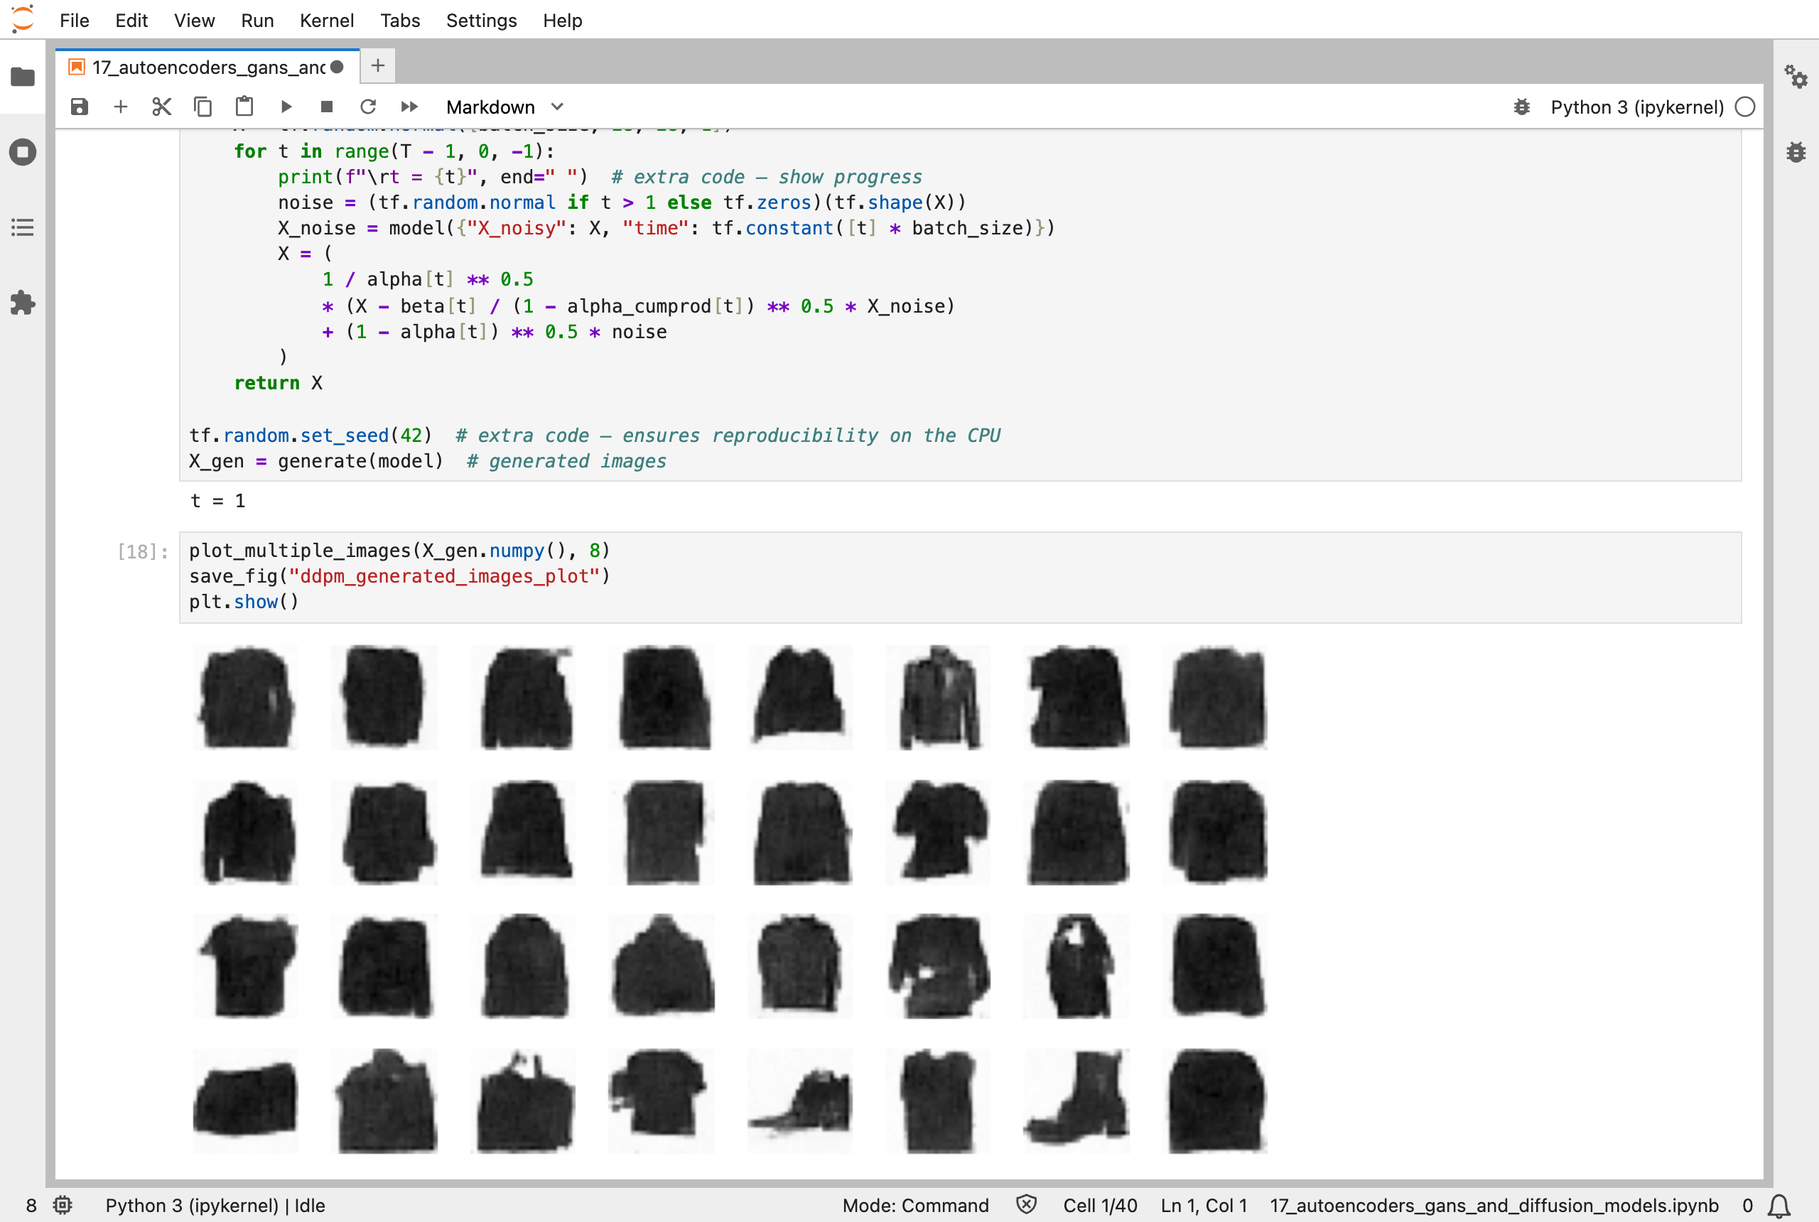
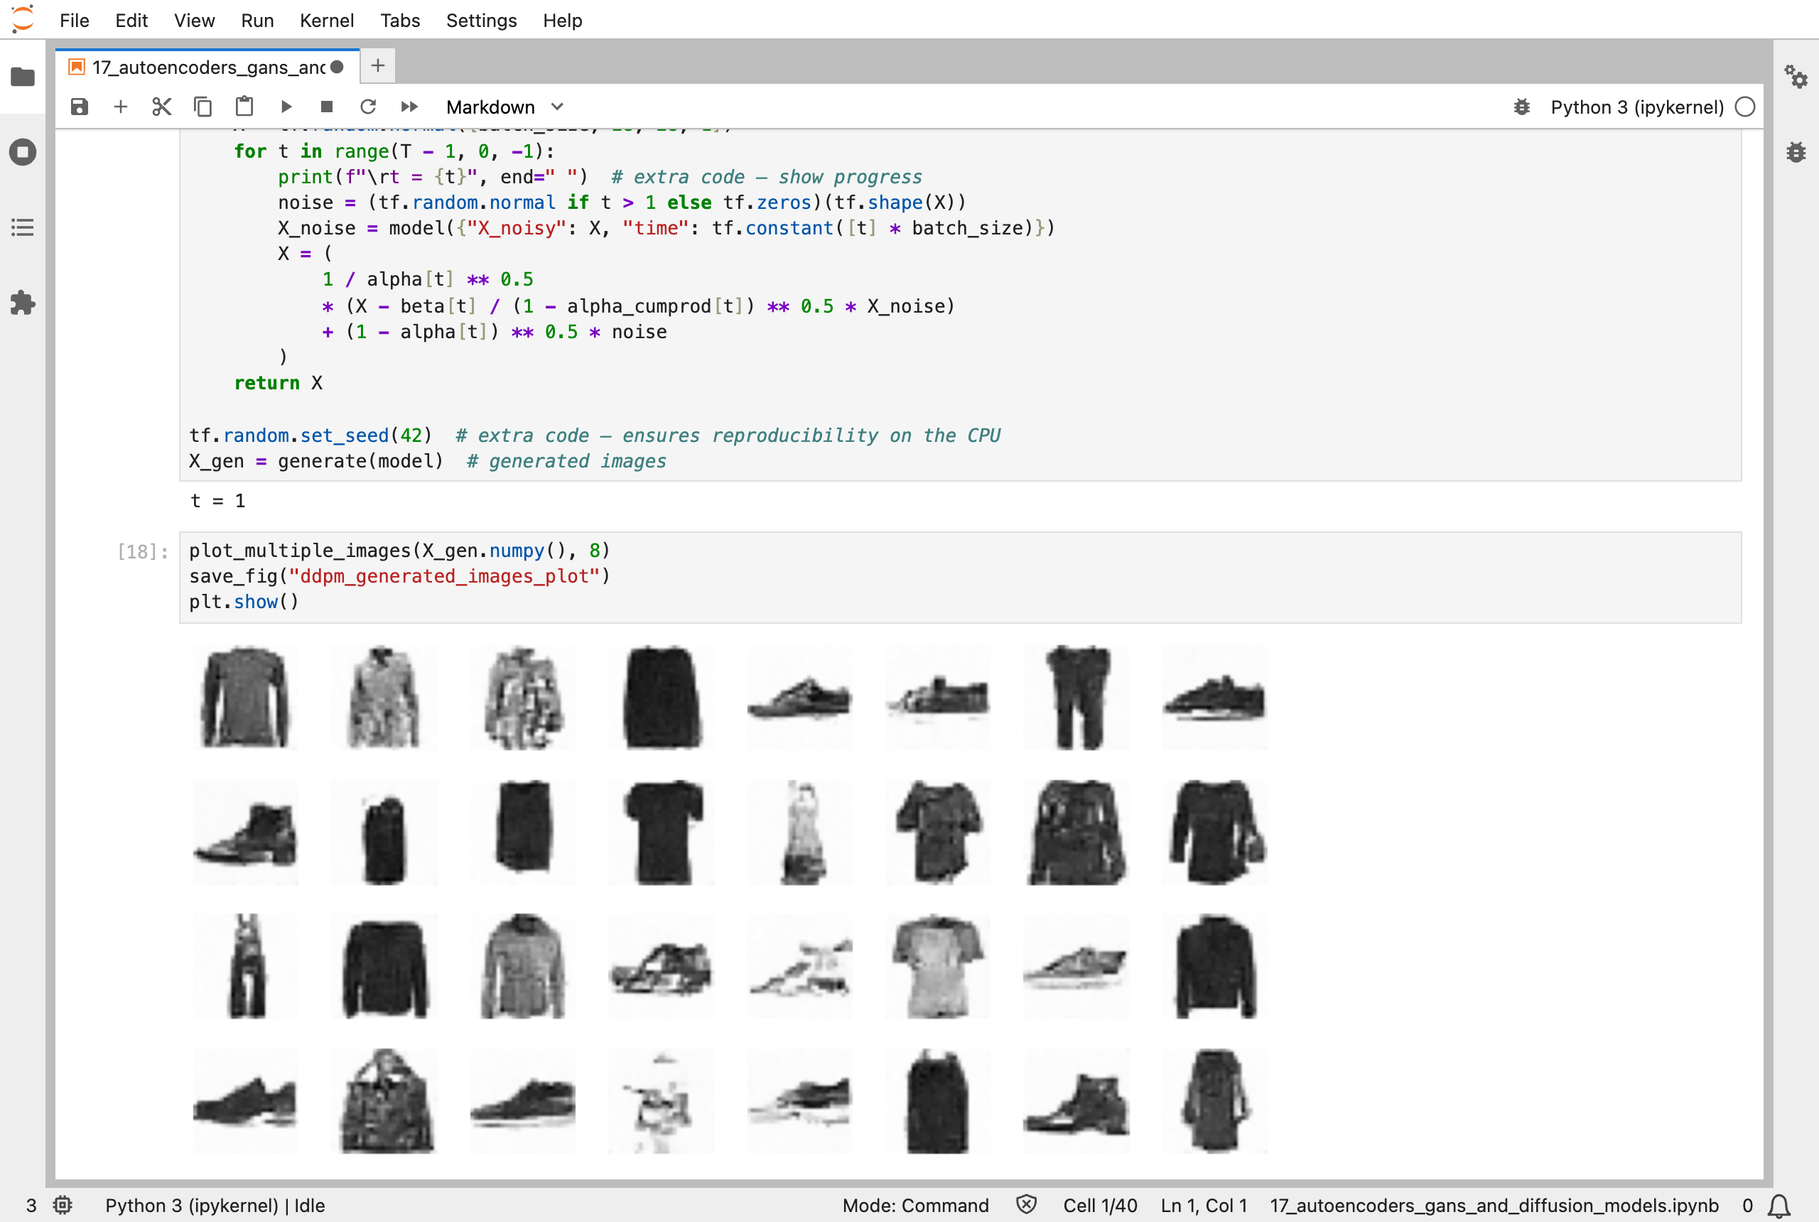
Scikit-Learn Parts 16, 17, 19, 20: full-length reruns of the GANs, diffusion model, and sentiment models; GPU wording

Changed region(s): [[0.0938, 0.5238, 0.7188, 0.9552], [0.5, 0.9244, 0.5312, 0.9552], [0.0938, 0.986, 0.125, 1.0]]

diff --git a/content/sklearn17.md b/content/sklearn17.md
@@ -68,8 +68,8 @@ The inputs and the targets are the same pictures, `X_train` twice. The score is 
 
 They are all close, which is the first surprise: the choice of design matters less than I expected, for this data. A picture compressed to 30 numbers, about 4% of its 784 pixels, comes back recognisable but blurred, and the pictures below show it.
 
-:::watch-it My plain GAN collapsed to a single picture
-The first GAN, built from ordinary layers, produced the same black shirt shape for every one of the 32 random inputs I gave it. This is called mode collapse: the generator found one picture that fools the discriminator, and kept making it. I trained it for 10 epochs, not the notebook's 50, so I cannot say whether more training would have cured it. The convolutional GAN, trained for 10 epochs in the same way, produced a mix of recognisable shoes, shirts, and trousers.
+:::watch-it My first plain GAN collapsed to a single picture
+In my first run, which I cut to 10 epochs, the plain GAN, built from ordinary layers, produced the same black shirt shape for every one of the 32 random inputs I gave it. This is called mode collapse: the generator found one picture that fools the discriminator, and kept making it. When I ran the notebook's full 50 epochs, it did not collapse: its 32 pictures were different from each other, with shirts, trousers, and shoes, but speckled with noise. So the collapse was not permanent. A GAN can pass through bad stages, which is part of why they are hard to train.
 :::
 
 ![](assets/images/sklearn17/jupyter-stacked-recon.png)
@@ -92,9 +92,9 @@ A: The 30 numbers in the middle. They are a compact description of each picture,
 
 A: Its middle layer gives a mean and a spread for each of 10 numbers, and a random sample is drawn from them. Training also pushes those distributions to look like a standard bell curve. Afterwards, I can throw away the encoder, draw 10 random numbers, give them to the decoder, and get a new picture. An ordinary autoencoder has no such guarantee that random middle numbers make sense.
 
-**Q: Why did the diffusion model's pictures look so poor?**
+**Q: How good are the diffusion model's pictures?**
 
-A: I trained it for 10 epochs instead of the notebook's 100, so its pictures are dark, blurry shapes: jackets and a few boots. Its error ended at 0.0424, down from 0.0679 in its first epoch, but I do not know how much further it would have fallen. The notebook's own pictures after 100 epochs are much better, but I did not run that.
+A: After the notebook's full 100 epochs, much better than I expected from such a small network: recognisable shoes, boots, trousers, shirts, and jackets, a little blurred. After my first run of only 10 epochs, they were dark blurred shapes. The error went from 0.0710 in the first epoch to 0.0373 in the last, and 0.0371 at its best.
 
 **Q: Are these still the way pictures are generated?**
 
@@ -103,7 +103,7 @@ A: Diffusion models, with larger networks and text prompts added, are behind muc
 
 ## Running the notebook in Jupyter
 
-The chapter is in the notebook that goes with the book, [17_autoencoders_gans_and_diffusion_models.ipynb](https://github.com/ageron/handson-ml3/blob/main/17_autoencoders_gans_and_diffusion_models.ipynb). I ran everything before the final extra section, but with the three most expensive trainings cut down: the plain GAN and the convolutional GAN ran for 10 epochs instead of 50, and the diffusion model for 10 epochs instead of 100. Everything else, including the autoencoders, ran as written. I ran the parts at the same time, on my Mac Studio, which took under an hour. My first attempt hung. The notebook's setup imports scikit-learn before TensorFlow, which seemed to deadlock TensorFlow on my Mac; once I removed that import, the runs finished.
+The chapter is in the notebook that goes with the book, [17_autoencoders_gans_and_diffusion_models.ipynb](https://github.com/ageron/handson-ml3/blob/main/17_autoencoders_gans_and_diffusion_models.ipynb). I ran everything before the final extra section, but with the three most expensive trainings cut down at first. I then ran the two GANs again at the notebook's full 50 epochs, and the diffusion model at its full 100, which took several hours on the processor. Everything else, including the autoencoders, ran as written. I ran the parts at the same time, on my Mac Studio, which took under an hour. My first attempt hung. The notebook's setup imports scikit-learn before TensorFlow, which seemed to deadlock TensorFlow on my Mac; once I removed that import, the runs finished.
 
 ![](assets/images/sklearn17/jupyter-conv-recon.png)
 *A convolutional autoencoder after 10 passes: the validation error is 0.0135, and the rebuilt pictures, bottom row, are again blurred versions of the originals above*
@@ -115,22 +115,22 @@ The chapter is in the notebook that goes with the book, [17_autoencoders_gans_an
 *A variational autoencoder: pictures from 21 random sets of 10 numbers, and below, one picture's numbers moved a little at a time along one axis*
 
 ![](assets/images/sklearn17/jupyter-gan-images.png)
-*The plain GAN after 10 epochs: all 32 generated pictures are the same shirt shape, mode collapse*
+*The plain GAN after 50 epochs: 32 different pictures, shirts, trousers, and shoes, but speckled with noise (after only 10 epochs it had produced the same shirt shape 32 times)*
 
 ![](assets/images/sklearn17/jupyter-dcgan-images.png)
-*The convolutional GAN after 10 epochs: a mix of shoes, shirts, trousers, and jackets, rough but recognisable*
+*The convolutional GAN after 50 epochs: shoes, shirts, trousers, bags, and dresses, much cleaner than the plain GAN*
 
 ![](assets/images/sklearn17/jupyter-diffusion-noise.png)
 *How diffusion models are trained: original pictures, the same pictures with different amounts of noise added, and the noise the network must predict*
 
 ![](assets/images/sklearn17/jupyter-diffusion-images.png)
-*Pictures generated by the diffusion model after only 10 epochs: dark blurred jackets, with a few boots, and nothing like the book's results*
+*Pictures generated by the diffusion model after 100 epochs: shoes, boots, trousers, shirts, and jackets, a little blurred (after only 10 epochs they were dark blurred shapes)*
 
 :::bullet-points Autoencoders, GANs, and diffusion, in short
 - An autoencoder learns to rebuild its input through a narrow middle, so the middle becomes a compact summary.
 - The input is the target, so no labels are needed.
 - A variational autoencoder makes the middle a probability distribution, so random numbers make new pictures.
-- A GAN trains a generator and a discriminator against each other, and can collapse to one picture.
+- A GAN trains a generator and a discriminator against each other, and can collapse to one picture along the way.
 - A diffusion model learns to predict noise, and generates by removing it step by step.
 :::
 

diff --git a/content/sklearn16.md b/content/sklearn16.md
@@ -52,11 +52,11 @@ It learns from 1,115,394 letters of Shakespeare, in windows of 100 letters, and 
 |---|---|
 | Character GRU, 3 epochs | 60.1% of the next letters right in training, 54.3% on validation |
 | Same, as a stateful RNN, 10 epochs | 57.8% in training, 54.1% on validation |
-| Review sentiment with no masking, 1 epoch | 50.1% right on validation, chance |
-| Same with masking of the padding, 2 epochs | 86.2% on validation |
-| Manual masking, 2 epochs | 87.0% |
-| Ragged tensors, 2 epochs | 86.7% |
-| A pretrained sentence encoder from Google, 1 epoch | 89.7% |
+| Review sentiment with no masking, 2 epochs | 50.0% right on validation, chance |
+| Same with masking of the padding, 5 epochs | 87.5% on validation at best (epoch 3), 85.4% at the end |
+| Manual masking, 5 epochs | 87.3% at best (epoch 2), 84.5% at the end |
+| Ragged tensors, 5 epochs | 85.5% at the end |
+| A pretrained sentence encoder from Google, 10 epochs | 90.0% on validation in epoch 1, falling to 86.6% by epoch 10, while its training score rose to 99.7% |
 | English to Spanish encoder-decoder, 1 epoch | 52.9% of Spanish words right on validation |
 | Same with a bidirectional encoder, 1 epoch | 59.2% |
 | Same with attention, 1 epoch | 61.9% |
@@ -65,7 +65,7 @@ It learns from 1,115,394 letters of Shakespeare, in windows of 100 letters, and 
 The text that the character model wrote, after only 3 epochs, is not good. (The stateful version, after 10 epochs, wrote "to be or not to be good sorrow. / gremio: / and i have heard the great", better, with a speaker's name in the right place.) With a temperature of 0.01, which almost always picks the most likely next letter, it wrote "To be or not to be a strange / to see the duke of a strange for the se". With a temperature of 1, it wrote "To be or not to be gir? / hooks! why but beriversolvesf.". With 100 it wrote only noise. These are the same temperature settings as in my MiniGPT's demo.
 
 :::watch-it Without masking, the sentiment model learned nothing
-The first review model scored 50.1% on validation, as good as flipping a coin. Reviews have different lengths, so the shorter ones are padded with zeros, and the recurrent layer reads the padding as if it were words. Telling the layer to ignore the padding, with `mask_zero=True`, took the same model to 86.2%. A small fix to what the model is shown made all of the difference.
+The first review model scored 50.0% on validation, as good as flipping a coin. Reviews have different lengths, so the shorter ones are padded with zeros, and the recurrent layer reads the padding as if it were words. Telling the layer to ignore the padding, with `mask_zero=True`, took the same model to 87.5% at best. A small fix to what the model is shown made all of the difference.
 :::
 
 ![](assets/images/sklearn16/jupyter-char-rnn-train.png)
@@ -99,10 +99,10 @@ A: Because models learn the biases of the text they are trained on. The notebook
 
 ## Running the notebook in Jupyter
 
-The chapter is in the notebook that goes with the book, [16_nlp_with_rnns_and_attention.ipynb](https://github.com/ageron/handson-ml3/blob/main/16_nlp_with_rnns_and_attention.ipynb). This is the heaviest notebook in the series for my Mac, which has no GPU, so I shortened the training: the character model to 3 epochs instead of 10, the review models to 1 or 2 epochs instead of 2 or 5, the pretrained sentence encoder to 1 epoch instead of 10, and each translation model to 1 epoch instead of 10. The results above come from those shortened runs, and the book's are better. I ran the five parts of the notebook at the same time, which took a few hours. I did not run the final fine-tuning cell with the Hugging Face `Trainer`, which failed to import here, and the notebook's stateful RNN, which keeps its memory from one window to the next, ran for the full 10 epochs.
+The chapter is in the notebook that goes with the book, [16_nlp_with_rnns_and_attention.ipynb](https://github.com/ageron/handson-ml3/blob/main/16_nlp_with_rnns_and_attention.ipynb). This is the heaviest notebook in the series for my Mac. Its graphics processor, an Apple M1 Max, was no faster than its processor on small models like these, so I used the processor, and I shortened the training: the character model to 3 epochs instead of 10, and each translation model to 1 epoch instead of 10. I then ran the sentiment models and the pretrained sentence encoder again at the notebook's full length, 5 and 10 epochs. The translation results above come from the shortened runs, and the book's are better. I ran the five parts of the notebook at the same time, which took a few hours. I did not run the final fine-tuning cell with the Hugging Face `Trainer`, which failed to import here, and the notebook's stateful RNN, which keeps its memory from one window to the next, ran for the full 10 epochs.
 
 ![](assets/images/sklearn16/jupyter-imdb-masking.png)
-*Masking at work: with the padding ignored, the review model reaches 86.2% on validation in 2 epochs, and a manual mask reaches 87.0%*
+*Manual masking over 5 epochs: the validation accuracy peaks at 87.3% in epoch 2 and ends at 84.5%, as the model starts to overfit; the same model without any masking stayed at 50%*
 
 ![](assets/images/sklearn16/jupyter-translate.png)
 *The plain encoder-decoder after 1 epoch: "I like soccer" becomes "me gusta la música", and the longer sentence turns into "me gusta la misma y [UNK]"*
@@ -118,7 +118,7 @@ The chapter is in the notebook that goes with the book, [16_nlp_with_rnns_and_at
 
 :::bullet-points Language models and attention, in short
 - A language model is trained to predict what comes next; writing is repeated sampling from its predictions.
-- Padding must be masked, or a recurrent model reads it as words: 50.1% became 86.2%.
+- Padding must be masked, or a recurrent model reads it as words: 50.0% became 87.5%.
 - An encoder-decoder with attention can look at every input word, and beat one that squeezes the sentence into a summary.
 - The Transformer uses only attention, with positional encodings to keep the word order.
 - Pretrained models carry the biases of their training data.

diff --git a/content/sklearn19.md b/content/sklearn19.md
@@ -10,7 +10,7 @@ slug: "sklearn19"
 image: "/assets/images/sklearn19/posts-meta.svg"
 ---
 
-In [Part 18](/posts/sklearn18/), an agent learned by trial and error. The last chapter of the Hands-On Machine Learning book, chapter 19, is about what happens once a model has been trained: how to put it where people can use it, and how to train bigger models by spreading the work over several machines. Most of it is about Google's cloud, and about graphics processors (GPUs), which my Mac does not have, so I ran what I could and I say below what I could not.
+In [Part 18](/posts/sklearn18/), an agent learned by trial and error. The last chapter of the Hands-On Machine Learning book, chapter 19, is about what happens once a model has been trained: how to put it where people can use it, and how to train bigger models by spreading the work over several machines. Most of it is about Google's cloud, and about graphics processors (GPUs), and the notebook is written for NVIDIA ones, so I ran what I could and I say below what I could not.
 
 ## Key Points
 
@@ -74,7 +74,7 @@ My Mac has an Arm processor, and the official TensorFlow Serving image is built 
 
 This chapter changes nothing about how a model learns. A model is still nudged by slopes on batches of examples. What changes is where the work is done. The book describes two ways to split it. In data parallelism, each device holds a copy of the model, each takes a share of the batch, and the slopes are averaged before every copy makes the same nudge. In model parallelism, one big model is cut into pieces, one per device.
 
-`MirroredStrategy` is the first kind. On a machine with several GPUs it would copy the model to each one. My Mac has no GPU, so the notebook printed a warning that no GPU was detected, and `MirroredStrategy` used one device, the processor. The weights became `MirroredVariable` objects, special variables that keep copies in step, and the training ran as usual: 10 epochs of about 70 seconds each, ending at 96.35% training accuracy and 98.30% validation accuracy. It did not run faster, because there was nothing to spread the work over, but it is the same code that would.
+`MirroredStrategy` is the first kind. On a machine with several GPUs it would copy the model to each one. My Mac's graphics processor is an Apple one, which the TensorFlow in this notebook does not use, so the notebook printed a warning that no GPU was detected, and `MirroredStrategy` used one device, the processor. The weights became `MirroredVariable` objects, special variables that keep copies in step, and the training ran as usual: 10 epochs of about 70 seconds each, ending at 96.35% training accuracy and 98.30% validation accuracy. It did not run faster, because there was nothing to spread the work over, but it is the same code that would.
 
 My [MiniGPT](/posts/minigpt-grown/) model has 826,433 numbers, which is small enough that none of this is needed: one machine trains it. The same ideas apply to the models behind large language models, which are split over thousands of devices, but I have not done that.
 
@@ -98,7 +98,7 @@ A: It is one way, and it is TensorFlow-specific. Many teams now use other server
 
 ## Running the notebook in Jupyter
 
-The chapter is in the notebook that goes with the book, [19_training_and_deploying_at_scale.ipynb](https://github.com/ageron/handson-ml3/blob/main/19_training_and_deploying_at_scale.ipynb). I ran the parts I could on my own Mac: exporting the model, serving it with Docker, the REST and gRPC requests, the new version, the TensorFlow Lite conversion, the device checks, and `MirroredStrategy`. That took under half an hour. I started TensorFlow Serving with the Docker command that the notebook describes, instead of installing the Linux program that it uses by default. I did not run the sections on Vertex AI, which need a Google Cloud account; or the training on a TensorFlow cluster, the distributed hyperparameter tuning, or AutoML. I have no GPU, so what the notebook says about GPUs, I know only from reading it.
+The chapter is in the notebook that goes with the book, [19_training_and_deploying_at_scale.ipynb](https://github.com/ageron/handson-ml3/blob/main/19_training_and_deploying_at_scale.ipynb). I ran the parts I could on my own Mac: exporting the model, serving it with Docker, the REST and gRPC requests, the new version, the TensorFlow Lite conversion, the device checks, and `MirroredStrategy`. That took under half an hour. I started TensorFlow Serving with the Docker command that the notebook describes, instead of installing the Linux program that it uses by default. I did not run the sections on Vertex AI, which need a Google Cloud account; or the training on a TensorFlow cluster, the distributed hyperparameter tuning, or AutoML. TensorFlow in my setup did not use my Mac's graphics processor, so what the notebook says about NVIDIA GPUs, I know only from reading it.
 
 ![](assets/images/sklearn19/jupyter-saved-model-cli.png)
 *A saved model describes itself: `saved_model_cli` lists its signature, what goes in and what comes out; below it, the Docker command that starts TensorFlow Serving, whose log says it is listening for REST requests on port 8501*

diff --git a/content/sklearn20.md b/content/sklearn20.md
@@ -53,13 +53,13 @@ The book was not padding. It is a survey, and a survey includes what was current
 ## What surprised me
 
 - **A simple baseline is hard to beat.** "The same as last week" scored 42,143 boardings per day in [Part 15](/posts/sklearn15/); the best network scored 24,021. That is a real gain, but the 1-neuron network scored 102,752, and without the baseline I would not have known that it was bad.
-- **A small fix can change everything.** Masking the padding in [Part 16](/posts/sklearn16/) took a sentiment model from 50.1% to 86.2%.
+- **A small fix can change everything.** Masking the padding in [Part 16](/posts/sklearn16/) took a sentiment model from 50.0% to 87.5%.
 - **Training can be fragile.** In [Part 17](/posts/sklearn17/), my plain GAN produced the same picture 32 times. In [Part 18](/posts/sklearn18/), agents reached the top score and then fell away.
 - **Seeing the output beats reading about it.** I learned most from the failures that I ran into: a deadlock on my Mac, a server that took a minute to notice a new model, and a warning about dropped padding.
 
 ## What I would do differently
 
-I would run the long trainings at full length. In [Part 16](/posts/sklearn16/) and [Part 17](/posts/sklearn17/) I shortened the longest ones at first, to save time, and the results were worse than the book's. My Mac has a graphics processor, and I tried it: for these small models, with batches of 32, it was slower than the processor, as [Part 12](/posts/sklearn12/) shows. A bigger machine, or bigger batches, is where a graphics processor would help.
+I would run the long trainings at full length from the start. In [Part 16](/posts/sklearn16/) and [Part 17](/posts/sklearn17/) I first shortened the longest ones to save time, and the results were poor: a GAN that made one picture, and a diffusion model that made dark blurs. Rerunning at full length fixed most of that, but it took hours, and I did not rerun the translation models. My Mac has a graphics processor, and I tried it: for these small models, with batches of 32, it was slower than the processor, as [Part 12](/posts/sklearn12/) shows. A bigger machine, or bigger batches, is where a graphics processor would help.
 
 I did write the training loop of Part 12 in PyTorch, as well as in TensorFlow, because the loop that I wrote by hand in MiniGPT is in PyTorch. The two gave the same results. If I did the series again, I would write the loops in both from the start.
 
